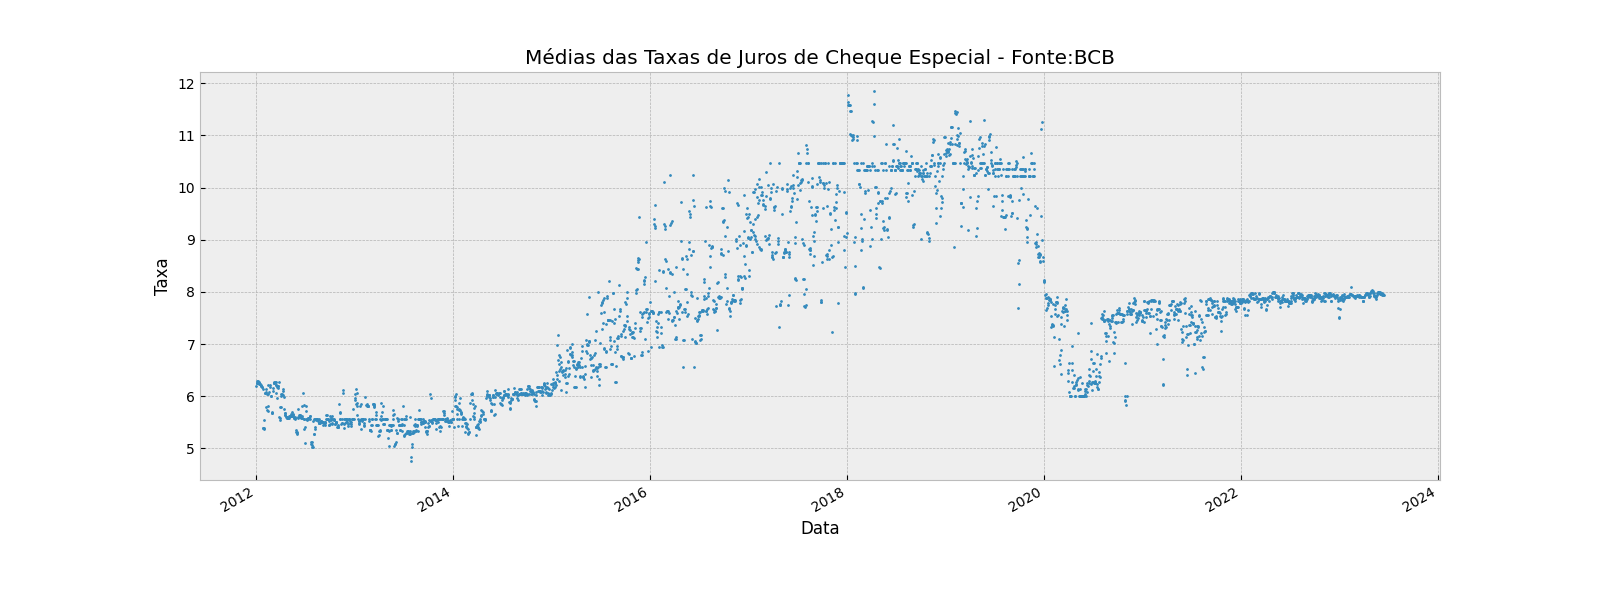
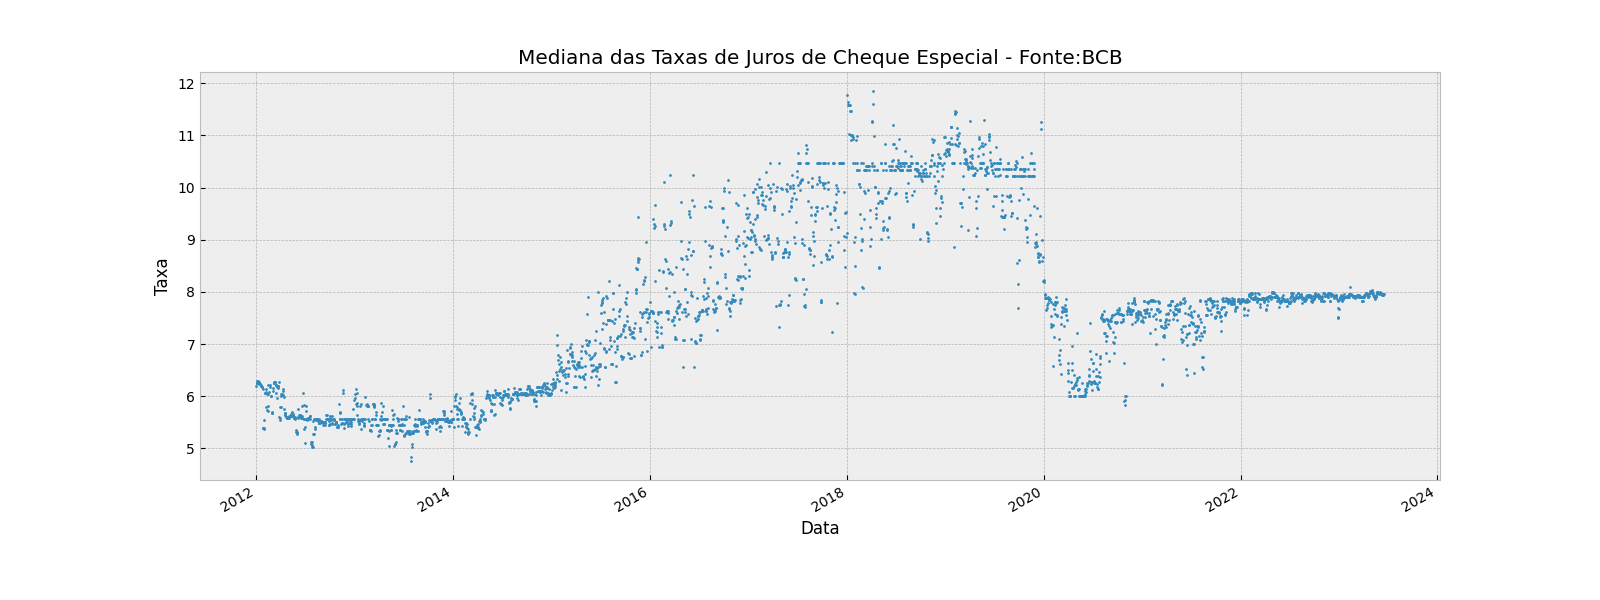
Docs updated

diff --git a/bcb/currency.py b/bcb/currency.py
@@ -11,6 +11,10 @@ import numpy as np
 
 from .utils import Date
 
+"""
+O módulo :py:mod:`bcb.currency` tem como objetivo fazer consultas no site do conversor de moedas do BCB.
+"""
+
 
 def _currency_url(currency_id, start_date, end_date):
     start_date = Date(start_date)
@@ -64,10 +68,13 @@ def _get_valid_currency_list(_date, n=0):
 
 def get_currency_list():
     """
-    Return a DataFrame with information of all available currencies.
+    Listagem com todas as moedas disponíveis na API e suas configurações de paridade.
 
-    :return: DataFrame
-    :rtype: pandas.DataFrame
+    Returns
+    -------
+
+    DataFrame :
+        Tabela com a listagem de moedas disponíveis.
     """
     if CACHE.get("TEMP_FILE_CURRENCY_LIST") is not None:
         return CACHE.get("TEMP_FILE_CURRENCY_LIST")
@@ -160,7 +167,7 @@ def get(symbols, start, end, side="ask", groupby="symbol"):
     -------
 
     DataFrame :
-        série temporal.
+        Série temporal com cotações diárias das moedas solicitadas.
     """
     if isinstance(symbols, str):
         symbols = [symbols]

diff --git a/bcb/__init__.py b/bcb/__init__.py
@@ -159,8 +159,6 @@ class ODataAPI(BaseODataAPI):
 
     def __init__(self, url):
         """
-        ODataAPI construtor
-
         Parameters
         ----------
 
@@ -280,7 +278,7 @@ class IFDATA(BaseODataAPI):
 
 class TaxaJuros(BaseODataAPI):
     """
-    Taxas de juros de operações de crédito por instituição financeira – Médias
+    Taxas de juros de operações de crédito por instituição financeira - Médias
     dos últimos 5 dias
 
     As taxas de juros por instituição financeira apresentadas nesse conjunto de

diff --git a/docs/index.rst b/docs/index.rst
@@ -47,11 +47,13 @@ APIs implementadas
    indicadores econômicos, ..., e com um simples chamado da função
    :py:func:`bcb.sgs.get` é possível tê-las
    em um ``DataFrame`` pandas.
+   Veja a documentação em :ref:`SGS`.
 ``Conversor de Moedas``
    Implementado no módulo ``currency``, um conjunto de funções que realiza webscraping
-   no site do `Conversos de Moedas <https://www.bcb.gov.br/conversao>`_
+   no site do `Conversor de Moedas <https://www.bcb.gov.br/conversao>`_
    do Banco Central, possível obter séries temporais de frequência diária
    de diversas moedas.
+   Veja a documentação em :ref:`Conversor de Moedas`.
 ``Moedas OData``
    O Banco Central disponibiliza diversas informações em APIs que
    seguem o padrão `OData <https://odata.org>`.
@@ -59,12 +61,30 @@ APIs implementadas
    entrega os boletins diários de taxas de câmbio do Banco Central.
    Esta API entrega mais informações do que o que é obtido no
    ``Conversor de Moedas``.
+   Veja a documentação em :ref:`API de Moedas`.
 ``Expectativas``
    A API de Expectativas de Mercado traz todas as estatísticas das variáveis
    macroeconômicas fornecidos por um conjuto de instituições do mercado
    financeiro.
    A classe :py:class:`bcb.Expectativas` implementa essa interface no
    padrão OData.
+   Veja a documentação em :ref:`API de Expectativas`.
+``Taxas de Juros``
+   API que retorna as taxas de juros de operações de crédito por instituição financeira (médias dos últimos 5 dias).
+   A classe :py:class:`bcb.TaxaJuros` implementa essa interface.
+   Veja a documentação em :ref:`Taxas de Juros`.
+``ODataAPI``
+   O BCB disponibiliza diversas APIs que seguem a especificação OData.
+   Algumas APIs mais utilizadas como as :py:class:`bcb.PTAX` e
+   :py:class:`bcb.Expectativas` possuem uma classe específica, para as
+   APIs menos utilizadas, é possível utilizar a classe :py:class:`bcb.ODataAPI`
+   para acessar a API.
+   Toda API que segue a especificação OData possui uma URL de acesso, esta URL
+   é passada para a classe :py:class:`bcb.ODataAPI` e o objeto criado dá
+   total acesso a API.
+   Veja a documentação em :ref:`Classe ODataAPI`.
+Muito mais
+   Veja todos os *endpoints* implementados na documentação de nossa :ref:`API`.
 
 
 Uso

diff --git a/docs/currency.rst b/docs/currency.rst
@@ -4,41 +4,8 @@ Moedas
 O pacote tem 2 APIs que dão acesso a informações de moedas.
 
 
-- Webscraping no :ref:`Conversor de Moedas`
 - :ref:`API OData` com cotações de taxas de câmbio
-
-
-Conversor de Moedas
--------------------
-
-.. automodule:: bcb.currency
-
-O módulo :py:mod:`bcb.currency` obtem dados de moedas do conversor de moedas do Banco Central através de webscraping.
-
-.. currentmodule:: bcb.currency
-
-.. autofunction:: get
-
-
-.. ipython:: python
-
-    from bcb import currency
-    df = currency.get(['USD', 'EUR'],
-                      start='2000-01-01',
-                      end='2021-01-01',
-                      side='ask')
-    df.head()
-
-    @savefig currency1.png
-    df.plot(figsize=(12, 6));
-
-
-.. autofunction:: get_currency_list
-
-
-.. ipython:: python
-
-    currency.get_currency_list().head()
+- Webscraping no :ref:`Conversor de Moedas`
 
 API OData
 ---------
@@ -48,13 +15,8 @@ API OData
 
 __ documentacao_
 
-Diferente do módulo :py:mod:`bcb.currency`, aqui os dados são obtidos a partir da `API de Moedas`__.
-
-.. currentmodule:: bcb
-
-
-.. autoclass:: PTAX
-
+A classe :py:class:`bcb.PTAX` retorna cotações de moedas os obtidas a partir da `API de Moedas`__ do BCB.
+Esta implementação é mais estável que a do :ref:`Conversor de Moedas`.
 
 .. ipython:: python
 
@@ -92,3 +54,26 @@ são preenchidos com 0 para ter 2 dígitos.
                    dataInicial='1/1/2022',
                    dataFinalCotacao='1/5/2022')
        .collect())
+
+Conversor de Moedas
+-------------------
+
+O módulo :py:mod:`bcb.currency` obtem dados de moedas do conversor de moedas do Banco Central através de webscraping.
+
+.. ipython:: python
+
+    from bcb import currency
+    df = currency.get(['USD', 'EUR'],
+                      start='2000-01-01',
+                      end='2021-01-01',
+                      side='ask')
+    df.head()
+
+    @savefig currency1.png
+    df.plot(figsize=(12, 6));
+
+
+.. ipython:: python
+
+    currency.get_currency_list().head()
+

diff --git a/docs/taxajuros.rst b/docs/taxajuros.rst
@@ -10,13 +10,6 @@ __ documentacao_
 
 Os dados são obtidos a partir da `API de Taxas de Juros`__.
 
-.. currentmodule:: bcb
-
-
-.. autoclass:: TaxaJuros
-  :members:
-  :inherited-members:
-
 
 Esta API tem os ``EntitySets``:
 
@@ -44,12 +37,11 @@ pelas instituições financeiras.
                    .filter(ep.Segmento == 'PESSOA FÍSICA',
                            ep.Modalidade == 'Cheque especial - Pré-fixado')
                    .collect())
-    df_cheque['InicioPeriodo'] = pd.to_datetime(df_cheque['InicioPeriodo'])
     grp = df_cheque.groupby('InicioPeriodo')
     df_mean = grp.agg({'TaxaJurosAoMes': 'median'})
 
     @savefig taxajuros1.png
     df_mean['TaxaJurosAoMes'].plot(figsize=(16,6), style='o', markersize=1,
                                    xlabel='Data', ylabel='Taxa',
-                                   title='Médias das Taxas de Juros de Cheque Especial - Fonte:BCB');
+                                   title='Mediana das Taxas de Juros de Cheque Especial - Fonte:BCB');
 

diff --git a/docs/odata.rst b/docs/odata.rst
@@ -50,8 +50,8 @@ que possui os seguintes métodos.
 Aplicações
 ----------
 
-Expectativas
-^^^^^^^^^^^^
+API de Expectativas
+^^^^^^^^^^^^^^^^^^^
 
 Vamos ver como isso tudo funciona utilizando a API de expectativas.
 
@@ -152,8 +152,8 @@ um conjunto de colunas.
      .limit(10)
      .collect())
 
-Moedas
-^^^^^^
+API de Moedas
+^^^^^^^^^^^^^
 
 Uma outra aplicação é com a API de Moedas que implementa a especificação OData.
 Utilizando a classe :py:class:`bcb.PTAX` temos:
@@ -206,11 +206,6 @@ Podemos filtrar apenas pelos dados de abertura.
 
 Classe ODataAPI
 ^^^^^^^^^^^^^^^
-
-.. currentmodule:: bcb
-
-.. autoclass:: ODataAPI
-    :inherited-members:
 
 O portal de Dados Abertos to Banco Central apresenta diversas APIs OData, são
 dezenas de APIs disponíveis.

diff --git a/docs/api.rst b/docs/api.rst
@@ -5,36 +5,19 @@ API
 Módulo :py:mod:`bcb.sgs`
 ------------------------
 
-.. currentmodule:: bcb.sgs
-
-.. autosummary::
-
-   get
+.. automodule:: bcb.sgs
+   :members:
 
 Módulo :py:mod:`bcb.currency`
 -----------------------------
 
-.. currentmodule:: bcb.currency
-
-.. autosummary::
-
-   get
-   get_currency_list
-
+.. automodule:: bcb.currency
+   :members:
 
 :ref:`APIs OData`
 -----------------
 
-.. currentmodule:: bcb
-
-.. autosummary::
-
-   Endpoint
-   BaseODataAPI
-   ODataAPI
-   Expectativas
-   PTAX
-   IFDATA
-   TaxaJuros
-   SPI
-   MercadoImobiliario
+.. automodule:: bcb
+   :members:
+   :member-order: bysource
+   :special-members: __init__

diff --git a/docs/sgs.rst b/docs/sgs.rst
@@ -1,18 +1,9 @@
 SGS
 ===
 
-O módulo ``sgs`` obtem os dados do webservice do Banco Central,
+A função :py:func:`bcb.sgs.get` obtem os dados do webservice do Banco Central ,
 interface json do serviço BCData/SGS - 
 `Sistema Gerenciador de Séries Temporais (SGS) <https://www3.bcb.gov.br/sgspub/localizarseries/localizarSeries.do?method=prepararTelaLocalizarSeries>`_.
-
-.. automodule:: bcb.sgs
-
-Função bcb.sgs.get
---------------------
-
-.. currentmodule:: bcb.sgs
-
-.. autofunction:: get
 
 Exemplo
 -------

diff --git a/docs/expectativas.rst b/docs/expectativas.rst
@@ -28,13 +28,6 @@ Ao instanciar a classe :py:class:`bcb.Expectativas` diversas informações
 são obtidas e a melhor maneira de interagir com a API é
 através do método :py:meth:`bcb.Expectativas.describe`.
 
-.. currentmodule:: bcb
-
-
-.. autoclass:: Expectativas
-  :members:
-  :inherited-members:
-
 
 .. ipython:: python
 
